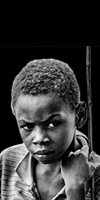
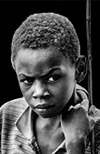
Crop image and canvas size to better fit screen

diff --git a/static/css/demo1.css b/static/css/demo1.css
@@ -14,7 +14,7 @@ body {
 	display: block;
 	width: 100%;
 	/* padding-top: 56.25%; */
-	padding-top: 200%;
+	padding-top: 154%;
 }
 
 .canvas-container canvas {
